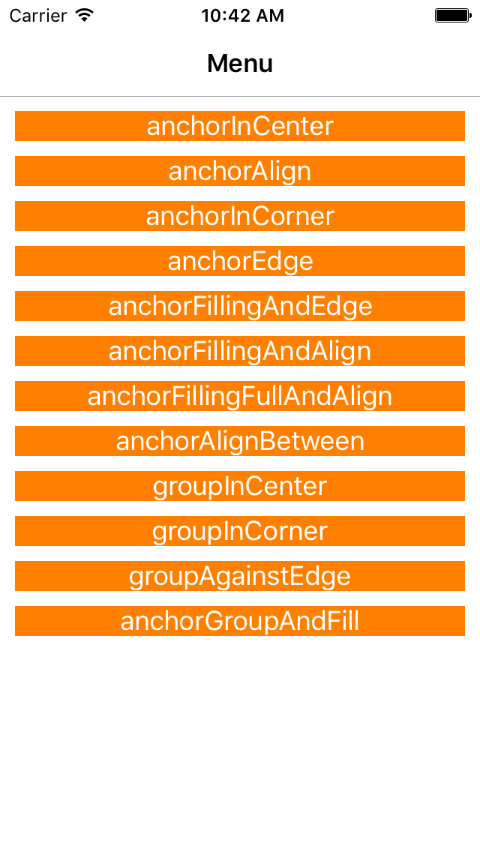
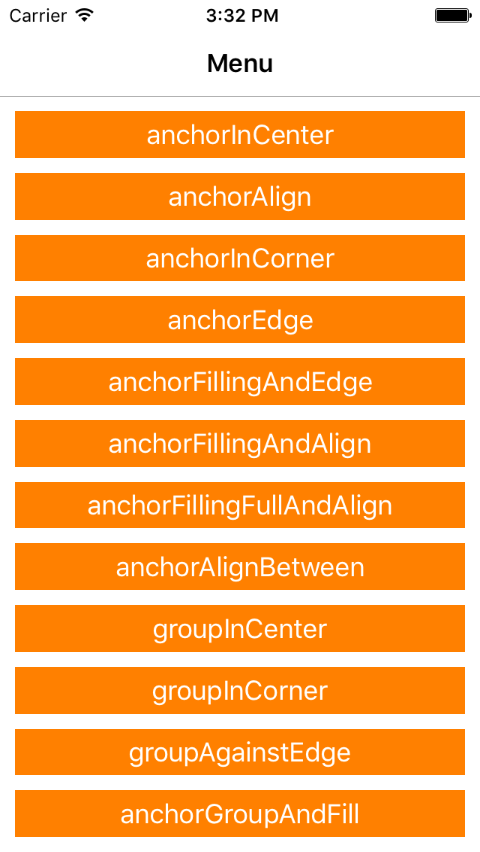
修正MENU排版及更新圖示。

diff --git a/UI_Design_SWIFT/ViewController.swift b/UI_Design_SWIFT/ViewController.swift
@@ -91,11 +91,8 @@ class ViewController: UIViewController {
         lab11.addTarget(self, action: "anchorGroupAndFill_action", forControlEvents: UIControlEvents.TouchUpInside)
         
         let array_views = [lab01,lab02,lab03,lab04,lab05,lab06,lab06_1,lab07,lab08,lab09,lab10,lab11] as NSArray
-        contenter.anchorGrouping(array_views,
-            groupin: groupInType.groupAgainstEdge_Top,
-            orientation: orientationType.Vertical,
-            gap: 10 , width: 300 , height: 20,
-            autoscall: true , sizeToFit: true )
+        contenter.anchorGrouping(array_views, groupin: groupInType.groupAndFill, orientation: orientationType.Vertical, gap: 10, width: 300, height: 30 )
+        
         
     }
     
